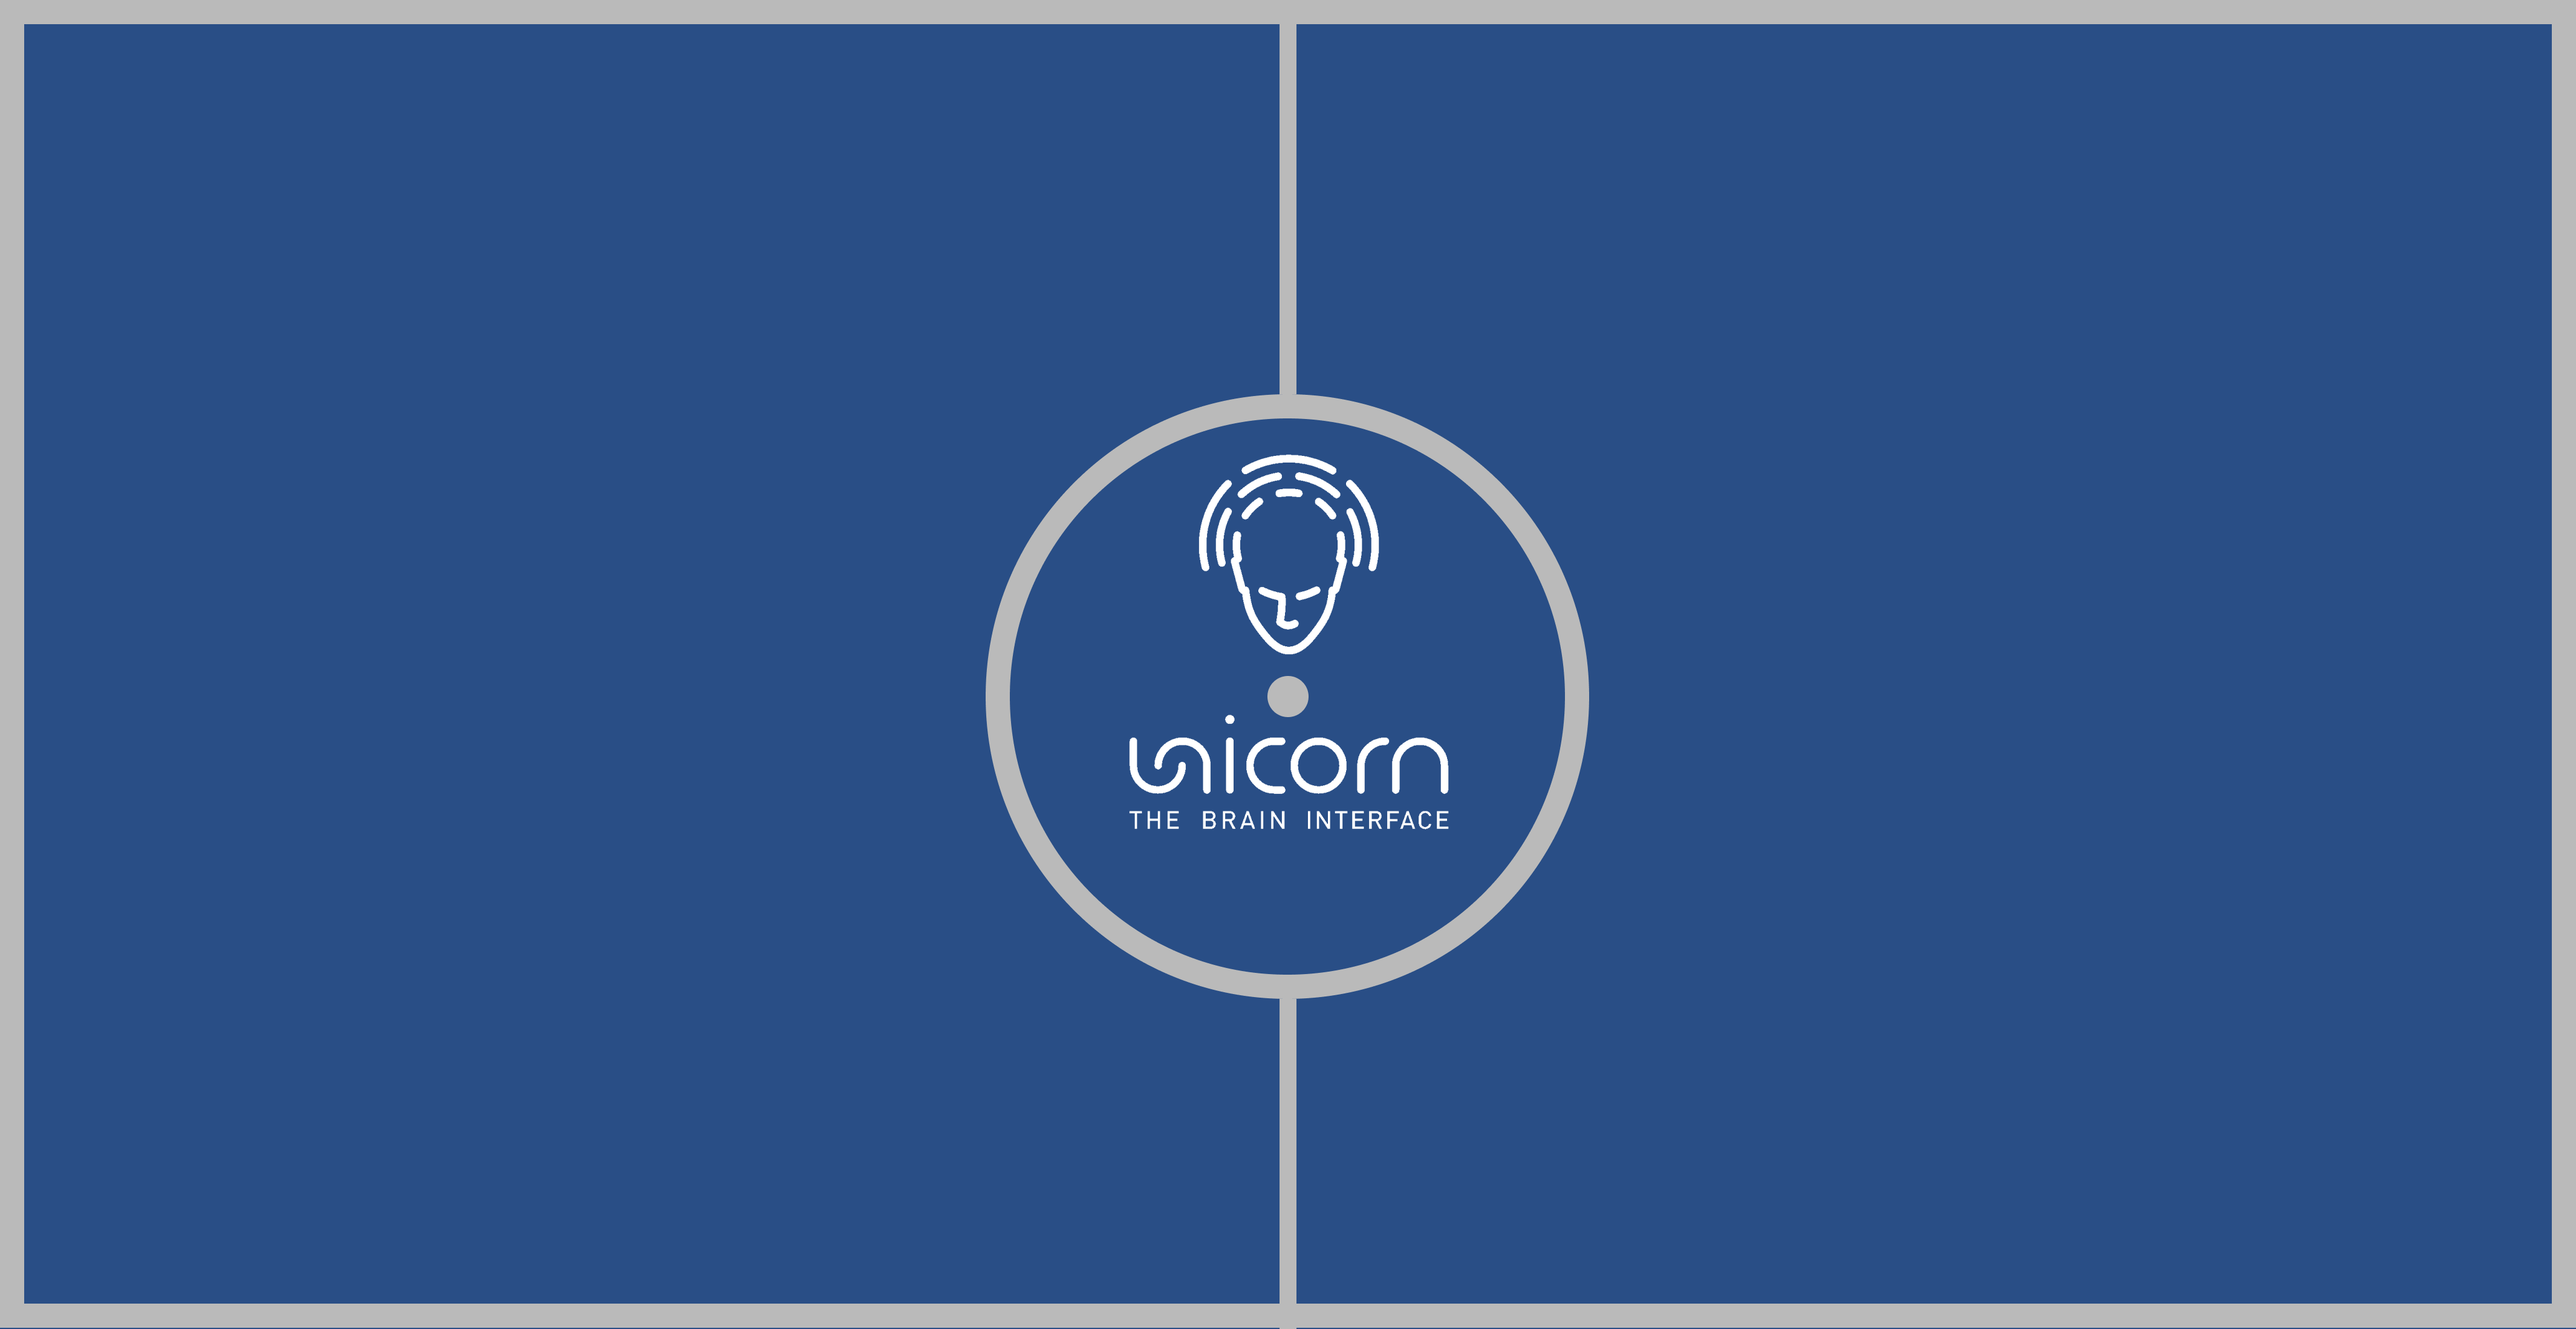
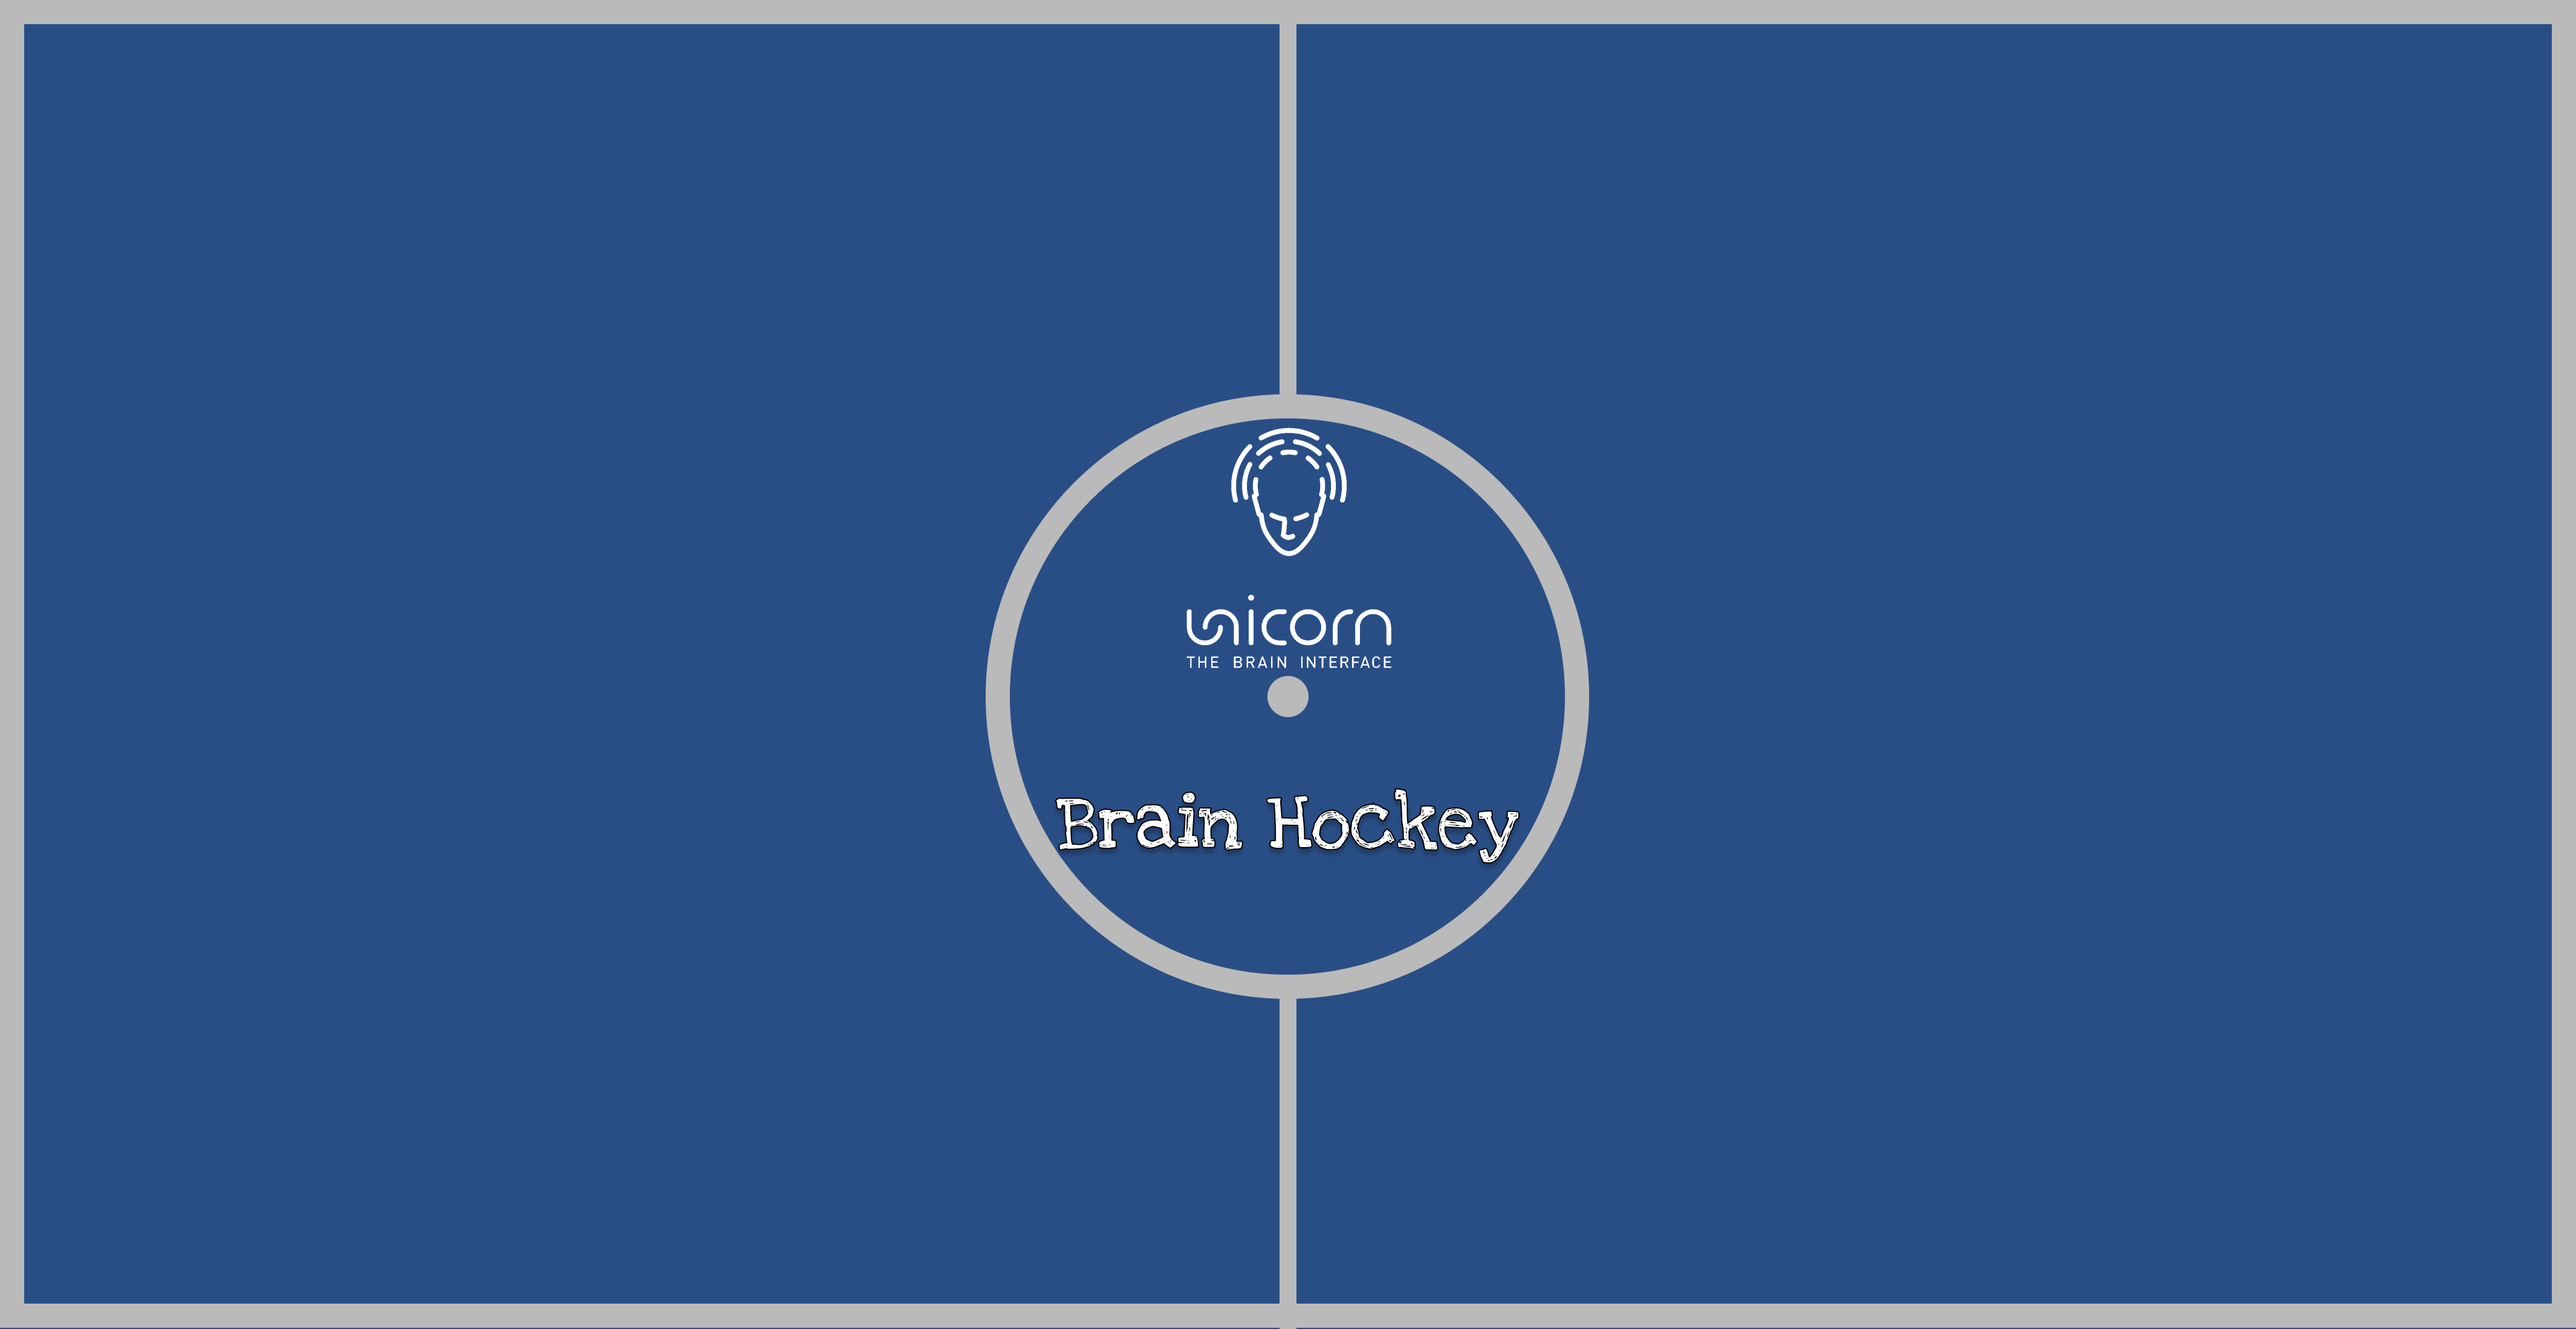
:art: changed field, add in-game screenshot, updated README

Changed region(s): [[0.4059, 0.5569, 0.5932, 0.6497], [0.4683, 0.3094, 0.5308, 0.495]]

diff --git a/README.md b/README.md
@@ -6,6 +6,9 @@ Welcome to BrainHockey, a mind-bending twist on the classic arcade game Pong! Ge
 
 BrainHockey is an innovative take on the beloved Pong game, where players use their brainpower to control the paddle instead of traditional keyboard or mouse inputs. Powered by g.tec Unicorn devices, BrainHockey taps into the potential of BCI technology, allowing players to move their paddle simply by focusing and concentrating on the Neurofeedback Targets.
 
+![In-game screenshot](Assets/Images/in_game.png)
+
+
 ## How to Play
 
 1. **Get Set Up**: Connect your g.tec Unicorn device and ensure it's properly calibrated on your brain.
